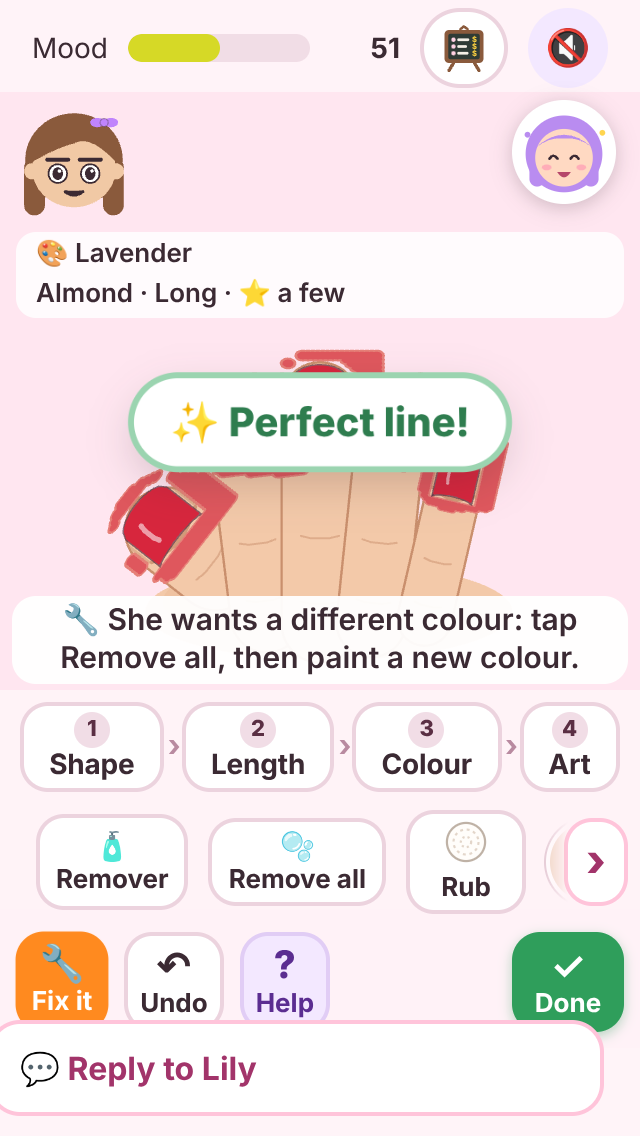
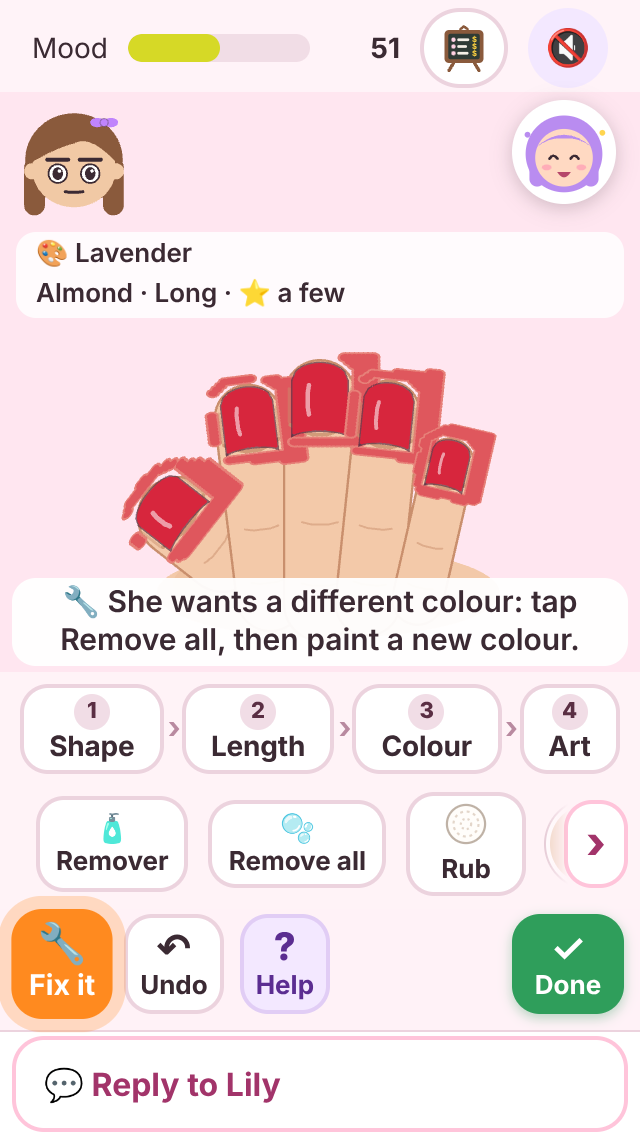
060 fix: the reply bar takes its own space (it sat on the station's bottom row)
Overseer review of 060: the slim "Reply to Lily" bar covered the lower edge of the bottom tool row
(Clean, Undo, Help, Done, Fix it) at 320x568.

Root cause: the bar's chip kept bottom: 12px from the old floating Reply chip. With
position: relative, that lifted it 12 px out of its bar onto the buttons. It now resets its
offsets. The bar has a top border and no upward glow, and the hand keeps its room (the
story 036 test stays above 150 px).

Regression test: the focus-mode test (colour step) and the 058 test (Fix it step) check at least
10 px between the station's buttons and the bar. It was watched failing on the old CSS (−4 px),
then passing.

Evidence re-shot: production/qa/evidence/story-060/ 02 and 04, en + vi, 320x568, 2x DPR.

Tests:
npm test: Test Files  49 passed (49) / Tests  490 passed (490)
npm run e2e: 80 passed (3.6m)

OWNER: none new.

Claude-Session: https://claude.ai/code/session_01Fx5cxFjSfz8L37QZFocT7H

Changed region(s): [[0.0, 0.3081, 1.0, 1.0]]

diff --git a/src/game/ui/chat-panel.css b/src/game/ui/chat-panel.css
@@ -144,11 +144,12 @@ html[data-motion='reduce'] .reply-chip.pulse { animation: none; }
 /* Story 060: focus mode while painting. The station has the screen; the chat is a slim bar at the bottom; her line
    pops as a bubble that stays until read (tap to reply, ✕ to dismiss). */
 .focus-bar { display: none; }
-.chat-panel.service-mode:not(.reply-open):not(.service-over):not(.prepping) .focus-bar { display: flex; flex: none; padding: 0 8px env(safe-area-inset-bottom); background: #fff4f8; pointer-events: auto; }
+.chat-panel.service-mode:not(.reply-open):not(.service-over):not(.prepping) .focus-bar { display: flex; flex: none; padding: 4px 8px calc(4px + env(safe-area-inset-bottom)); border-top: 1px solid #ecd3de; background: #fff; pointer-events: auto; }
 /* The service header is slimmer so the nails keep their room above the bar. */
 .chat-panel.service-mode .chat-header { padding-top: 4px; padding-bottom: 2px; }
-.focus-bar .reply-chip { position: relative; flex: 1 1 auto; min-height: 44px; padding: 0 14px; border-radius: 14px; background: #fff; color: #a2346a; box-shadow: 0 0 0 2px #ffc4da; font: 700 16px/1 system-ui, sans-serif; text-align: left; }
-.focus-bar .reply-chip.unread { background: #ff5c9a; color: #fff; box-shadow: 0 2px 10px rgba(255, 92, 154, 0.45); }
+.focus-bar .reply-chip { position: relative; inset: auto; flex: 1 1 auto; min-height: 44px; padding: 0 14px; border-radius: 14px; background: #fff; color: #a2346a; box-shadow: 0 0 0 2px #ffc4da; font: 700 16px/1 system-ui, sans-serif; text-align: left; }
+.focus-bar .reply-chip.unread { background: #ff5c9a; color: #fff; box-shadow: none; }
+.focus-bar .reply-chip.pulse { animation: none; }
 .focus-bar .reply-chip.unread::after { content: ''; position: absolute; right: 12px; top: 50%; width: 10px; height: 10px; margin-top: -5px; border-radius: 50%; background: #fff; }
 .service-bubble { position: relative; display: flex; align-items: flex-start; gap: 4px; width: 100%; pointer-events: none; }
 .service-bubble .service-say { flex: 1 1 auto; }

diff --git a/src/tests/integration/game-flows.spec.ts b/src/tests/integration/game-flows.spec.ts
@@ -659,6 +659,9 @@ for (const lang of LANGS) {
       await expect(bar).toBeVisible();
       await expect(bar).toHaveClass(/unread/);
       await expect(page.locator('.chat-panel.service-mode .chat-form')).toBeHidden();
+      // The bar has its own space: clear of the station's buttons (060 review: it sat on the bottom row).
+      const clearance = () => page.evaluate(() => document.querySelector('.focus-bar .reply-chip')!.getBoundingClientRect().top - Math.max(...[...document.querySelectorAll('.station-tools button')].map((b) => b.getBoundingClientRect().bottom)));
+      expect(await clearance()).toBeGreaterThanOrEqual(10);
       // ✕: the bubble goes, the dot goes; the bar stays.
       await page.locator('.service-dismiss').click();
       await expect(page.locator('.service-say')).toBeHidden();
@@ -738,6 +741,8 @@ for (const lang of LANGS) {
       await fixNow.click();
       await expect(page.locator('.chat-panel.service-mode')).toHaveCount(1);
       await expect(page.locator('.station-controls .station-fix')).toBeVisible();
+      // 060 review: the reply bar keeps clear of the Fix it step's buttons too.
+      expect(await page.evaluate(() => document.querySelector('.focus-bar .reply-chip')!.getBoundingClientRect().top - Math.max(...[...document.querySelectorAll('.station-tools button')].map((b) => b.getBoundingClientRect().bottom)))).toBeGreaterThanOrEqual(10);
       await page.locator('.station-swatch').nth(1).click();
       await paintEverything(page);
       // Then rub the polish off her skin.
